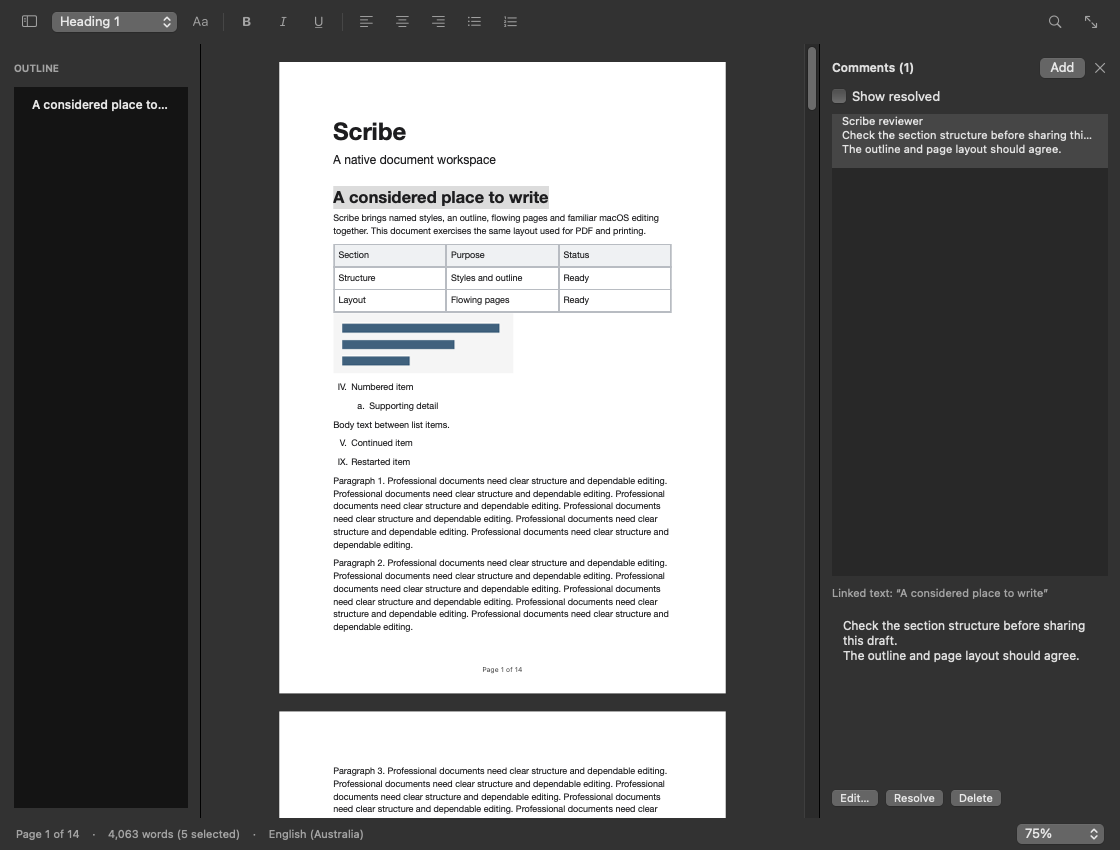
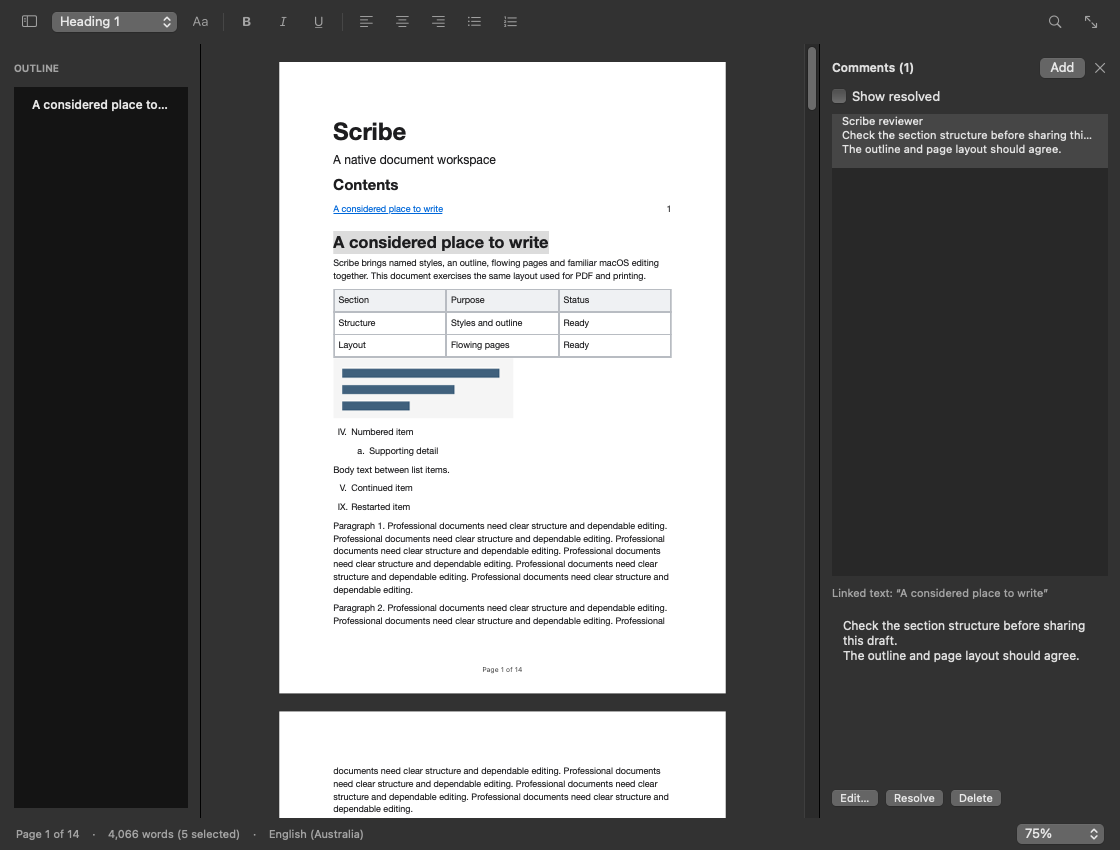
Support custom paper sizes and preserve valid object geometry on layout changes

Changed region(s): [[0.2812, 0.2141, 0.5938, 0.7647], [0.2812, 0.8871, 0.5938, 0.9788]]

diff --git a/Sources/Scribe/UI/DocumentActions.swift b/Sources/Scribe/UI/DocumentActions.swift
@@ -64,43 +64,17 @@ extension EditorWindowController {
     }
     @objc func pageSettings() {
         let alert = NSAlert(); alert.messageText = "Page Layout"
-        alert.informativeText = "Paper size and margins apply to this document. Measurements are in points (72 points = 1 inch)."
-        let size = NSPopUpButton(); size.addItems(withTitles: PageSettings.Paper.allCases.map(\.rawValue))
-        let landscape = NSButton(checkboxWithTitle: "Landscape", target: nil, action: nil)
-        let current = fileDocument.model.sections[0].page
-        landscape.state = current.width > current.height ? .on : .off
-        if max(current.width, current.height) > 950 { size.selectItem(at: 2) }
-        else if abs(min(current.width, current.height) - 612) < 1 { size.selectItem(at: 1) }
-        let margins = [current.top, current.bottom, current.left, current.right].map { NSTextField(string: String(Int($0))) }
-        var views: [NSView] = [size, landscape]
-        for (name, field) in zip(["Top", "Bottom", "Left", "Right"], margins) {
-            field.widthAnchor.constraint(equalToConstant: 90).isActive = true
-            views.append(NSStackView(views: [NSTextField(labelWithString: name), field]))
-        }
-        let stack = NSStackView(views: views); stack.orientation = .vertical; stack.alignment = .leading; stack.spacing = 10
-        stack.frame = NSRect(x: 0, y: 0, width: 300, height: 210); alert.accessoryView = stack
-        alert.addButton(withTitle: "Apply"); alert.addButton(withTitle: "Cancel")
-        guard alert.runModal() == .alertFirstButtonReturn else { return }
-        var settings = PageSettings(paper: PageSettings.Paper.allCases[size.indexOfSelectedItem], landscape: landscape.state == .on)
-        let values = margins.compactMap { Double($0.stringValue) }
-        guard values.count == 4 else { presentError(DocumentError.invalid("enter numeric margins")); return }
-        settings.top = values[0]; settings.bottom = values[1]; settings.left = values[2]; settings.right = values[3]
-        guard settings.isValid else { presentError(DocumentError.invalid("margins leave less than one inch of writing space")); return }
-        guard fileDocument.model.tables.allSatisfy({ Double($0.columnWidths.count) * 12 <= settings.contentWidth }) else { presentError(DocumentError.invalid("this page is too narrow for the document's tables")); return }
-        fileDocument.performEdit("Page Layout") { model in
-            model.sections[0].page = settings
-            for i in model.tables.indices {
-                let total = model.tables[i].columnWidths.reduce(0, +)
-                if total > settings.contentWidth { model.tables[i].columnWidths = model.tables[i].columnWidths.map { $0 * settings.contentWidth / total } }
-            }
-            for p in model.sections[0].paragraphs.indices {
-                for r in model.sections[0].paragraphs[p].runs.indices {
-                    guard var image = model.sections[0].paragraphs[p].runs[r].image else { continue }
-                    let scale = min(1, settings.contentWidth / image.width, (settings.contentHeight - 24) / image.height)
-                    image.width *= scale; image.height *= scale
-                    model.sections[0].paragraphs[p].runs[r].image = image
-                }
-            }
+        alert.informativeText = "Measurements are in points (72 points = 1 inch). Choose a preset or enter custom dimensions. Oversized tables and images shrink to fit the new writing area."
+        let options = PageLayoutOptions(settings: fileDocument.snapshot().sections[0].page)
+        alert.accessoryView = options.view; alert.addButton(withTitle: "Apply"); alert.addButton(withTitle: "Cancel")
+        while alert.runModal() == .alertFirstButtonReturn {
+            do {
+                let settings = try options.settings()
+                var updated = fileDocument.snapshot()
+                try updated.applyPageLayout(settings, sectionID: updated.sections[0].id)
+                fileDocument.performEdit("Page Layout") { $0 = updated }
+                return
+            } catch { alert.informativeText = error.localizedDescription }
         }
     }
     @objc func editHeaderFooter() {

diff --git a/Sources/Scribe/UI/PageLayoutOptions.swift b/Sources/Scribe/UI/PageLayoutOptions.swift
@@ -1,0 +1,59 @@
+#if canImport(AppKit)
+import AppKit
+import DocumentCore
+
+@MainActor final class PageLayoutOptions: NSObject, NSTextFieldDelegate {
+    let paper = NSPopUpButton()
+    let width: NSTextField
+    let height: NSTextField
+    let landscape = NSButton(checkboxWithTitle: "Landscape", target: nil, action: nil)
+    let margins: [NSTextField]
+    let view = NSStackView()
+    init(settings: PageSettings) {
+        width = NSTextField(string: String(settings.width)); height = NSTextField(string: String(settings.height))
+        margins = [settings.top, settings.bottom, settings.left, settings.right].map { NSTextField(string: String($0)) }
+        super.init()
+        let fields = [width, height] + margins
+        let labels = ["Width", "Height", "Top margin", "Bottom margin", "Left margin", "Right margin"]
+        paper.addItems(withTitles: PageSettings.Paper.allCases.map(\.rawValue) + ["Custom"])
+        paper.selectItem(at: 3)
+        for (index, preset) in PageSettings.Paper.allCases.enumerated() {
+            let size = PageSettings(paper: preset, landscape: settings.width > settings.height)
+            if abs(size.width - settings.width) < 0.01 && abs(size.height - settings.height) < 0.01 { paper.selectItem(at: index) }
+        }
+        landscape.state = settings.width > settings.height ? .on : .off
+        let grid = NSGridView(views: zip(labels, fields).map { [NSTextField(labelWithString: $0.0), $0.1] })
+        grid.rowSpacing = 8; grid.columnSpacing = 16
+        for child in [paper as NSView, landscape, grid] { view.addArrangedSubview(child) }
+        view.orientation = .vertical; view.alignment = .leading; view.spacing = 12
+        view.frame = NSRect(x: 0, y: 0, width: 320, height: 260)
+        paper.target = self; paper.action = #selector(selectPaper); paper.setAccessibilityLabel("Paper size")
+        landscape.target = self; landscape.action = #selector(rotate)
+        width.delegate = self; height.delegate = self
+        for (name, field) in zip(labels, fields) {
+            field.widthAnchor.constraint(equalToConstant: 125).isActive = true; field.setAccessibilityLabel(name)
+        }
+    }
+    @objc func selectPaper() {
+        guard PageSettings.Paper.allCases.indices.contains(paper.indexOfSelectedItem) else { return }
+        let size = PageSettings(paper: PageSettings.Paper.allCases[paper.indexOfSelectedItem], landscape: landscape.state == .on)
+        width.stringValue = String(size.width); height.stringValue = String(size.height)
+    }
+    @objc func rotate() {
+        guard let w = Double(width.stringValue), let h = Double(height.stringValue) else { return }
+        if (w > h) != (landscape.state == .on) { width.stringValue = String(h); height.stringValue = String(w) }
+    }
+    func controlTextDidChange(_ notification: Notification) {
+        paper.selectItem(at: 3)
+        if let w = Double(width.stringValue), let h = Double(height.stringValue) { landscape.state = w > h ? .on : .off }
+    }
+    func settings() throws -> PageSettings {
+        let values = ([width, height] + margins).compactMap { Double($0.stringValue) }
+        guard values.count == 6 else { throw DocumentError.invalid("enter numeric dimensions and margins") }
+        var result = PageSettings()
+        result.width = values[0]; result.height = values[1]; result.top = values[2]; result.bottom = values[3]; result.left = values[4]; result.right = values[5]
+        guard result.isValid else { throw DocumentError.invalid("dimensions must be at most 4000 points, with nonnegative margins leaving at least 72 points of writing space") }
+        return result
+    }
+}
+#endif

diff --git a/Tests/ScribeTests/PageLayoutTests.swift b/Tests/ScribeTests/PageLayoutTests.swift
@@ -1,0 +1,49 @@
+#if canImport(AppKit)
+import AppKit
+import PDFKit
+import XCTest
+import DocumentCore
+@testable import Scribe
+
+@MainActor final class PageLayoutTests: XCTestCase {
+    override func setUp() { super.setUp(); _ = NSApplication.shared }
+    func testCustomGeometryNativeDialogUndoAndPDFMediaBox() throws {
+        let document = ScribeFileDocument()
+        var page = PageSettings(); page.width = 450.5; page.height = 600.25; page.top = 60.125
+        document.model.sections[0].page = page
+        document.makeWindowControllers(); defer { document.close() }
+        let controller = document.editorController!
+        DispatchQueue.main.asyncAfter(deadline: .now() + 0.1) {
+            func descendants(_ view: NSView) -> [NSView] { [view] + view.subviews.flatMap(descendants) }
+            guard let content = NSApp.modalWindow?.contentView else { XCTFail("Missing layout dialog"); NSApp.abortModal(); return }
+            let views = descendants(content)
+            XCTAssertEqual(views.compactMap { $0 as? NSPopUpButton }.first?.titleOfSelectedItem, "Custom")
+            guard let field = views.compactMap({ $0 as? NSTextField }).first(where: { $0.isEditable && $0.stringValue == "450.5" }),
+                  let button = views.compactMap({ $0 as? NSButton }).first(where: { $0.title == "Apply" }) else { XCTFail("Missing page controls"); NSApp.abortModal(); return }
+            field.stringValue = "480.75"
+            button.performClick(nil)
+        }
+        controller.pageSettings()
+        XCTAssertEqual(document.model.sections[0].page.width, 480.75)
+        XCTAssertEqual(document.model.sections[0].page.top, 60.125)
+        let url = FileManager.default.temporaryDirectory.appendingPathComponent(UUID().uuidString + ".pdf")
+        defer { try? FileManager.default.removeItem(at: url) }
+        try PrintRenderer(editor: controller.editor).exportPDF(to: url, title: "Custom", author: "")
+        let bounds = try XCTUnwrap(PDFDocument(url: url)?.page(at: 0)?.bounds(for: .mediaBox))
+        XCTAssertEqual(bounds.width, 480.75, accuracy: 0.01); XCTAssertEqual(bounds.height, 600.25, accuracy: 0.01)
+        document.undoManager?.undo()
+        XCTAssertEqual(document.model.sections[0].page, page)
+    }
+    func testPresetRotationAndCustomDimensionsStayConsistent() throws {
+        let options = PageLayoutOptions(settings: PageSettings())
+        options.paper.selectItem(at: 1); options.selectPaper()
+        XCTAssertEqual(try options.settings().width, 612)
+        options.landscape.state = .on; options.rotate()
+        XCTAssertEqual(try options.settings().width, 792)
+        XCTAssertEqual(try options.settings().height, 612)
+        options.width.stringValue = "800.25"; options.controlTextDidChange(Notification(name: NSControl.textDidChangeNotification))
+        XCTAssertEqual(options.paper.titleOfSelectedItem, "Custom")
+        XCTAssertEqual(try options.settings().width, 800.25)
+    }
+}
+#endif

diff --git a/Sources/DocumentCore/PageLayoutEditing.swift b/Sources/DocumentCore/PageLayoutEditing.swift
@@ -1,0 +1,35 @@
+import Foundation
+
+extension ScribeDocument {
+    /// Change geometry transactionally. Objects that exceed the new writing area
+    /// shrink without modifying their underlying image data or table contents.
+    public mutating func applyPageLayout(_ settings: PageSettings, sectionID: UUID) throws {
+        guard settings.isValid, let section = sections.firstIndex(where: { $0.id == sectionID }) else {
+            throw DocumentError.invalid("page dimensions and margins must leave at least 72 points of writing space")
+        }
+        var result = self
+        let tableIDs = Set(sections[section].paragraphs.compactMap { $0.tableCell?.tableID })
+        for i in result.tables.indices where tableIDs.contains(result.tables[i].id) {
+            let widths = result.tables[i].columnWidths, minimum = Double(widths.count) * 12
+            guard minimum <= settings.contentWidth else { throw DocumentError.invalid("this page is too narrow for the document's tables") }
+            let total = widths.reduce(0, +)
+            if total > settings.contentWidth {
+                // Reserve the minimum for every column before distributing remaining
+                // space. Pure proportional scaling can produce invalid narrow cells.
+                let scale = (settings.contentWidth - minimum) / (total - minimum)
+                result.tables[i].columnWidths = widths.map { 12 + ($0 - 12) * scale }
+            }
+        }
+        result.sections[section].page = settings
+        for p in result.sections[section].paragraphs.indices {
+            for r in result.sections[section].paragraphs[p].runs.indices {
+                guard var image = result.sections[section].paragraphs[p].runs[r].image else { continue }
+                let scale = min(1, settings.contentWidth / image.width, (settings.contentHeight - 24) / image.height)
+                image.width *= scale; image.height *= scale
+                result.sections[section].paragraphs[p].runs[r].image = image
+            }
+        }
+        try NativeFormat.validate(result)
+        self = result
+    }
+}

diff --git a/Tests/DocumentCoreTests/PageLayoutTests.swift b/Tests/DocumentCoreTests/PageLayoutTests.swift
@@ -1,0 +1,31 @@
+import XCTest
+@testable import DocumentCore
+
+final class PageLayoutTests: XCTestCase {
+    func testNarrowLayoutPreservesMinimumColumnsAndOriginalImageBytes() throws {
+        var document = ScribeDocument()
+        document.insertTable(rows: 1, columns: 2, after: document.paragraphs[0].id)
+        document.tables[0].columnWidths = [12, 400]
+        let data = Data([1, 2, 3])
+        document.sections[0].paragraphs[0].runs[0] = TextRun("\u{fffc}")
+        document.sections[0].paragraphs[0].runs[0].image = InlineImage(data: data, fileExtension: "png", width: 400, height: 200)
+        var page = PageSettings(); page.width = 344; page.height = 500; page.top = 72.125
+        try document.applyPageLayout(page, sectionID: document.sections[0].id)
+        XCTAssertEqual(document.tables[0].columnWidths, [12, 188])
+        XCTAssertEqual(document.paragraphs[0].runs[0].image?.width, 200)
+        XCTAssertEqual(document.paragraphs[0].runs[0].image?.height, 100)
+        XCTAssertEqual(document.paragraphs[0].runs[0].image?.data, data)
+        XCTAssertEqual(try NativeFormat.decode(NativeFormat.encode(document)).sections[0].page, page)
+    }
+    func testRejectedLayoutLeavesModelUnchanged() throws {
+        var document = ScribeDocument()
+        document.insertTable(rows: 1, columns: 20, after: document.paragraphs[0].id)
+        let original = document
+        var page = PageSettings(); page.width = 244
+        XCTAssertThrowsError(try document.applyPageLayout(page, sectionID: document.sections[0].id))
+        XCTAssertEqual(document, original)
+        page.width = .infinity
+        XCTAssertThrowsError(try document.applyPageLayout(page, sectionID: document.sections[0].id))
+        XCTAssertEqual(document, original)
+    }
+}

diff --git a/Tests/ScribeTests/BookmarkTests.swift b/Tests/ScribeTests/BookmarkTests.swift
@@ -65,6 +65,7 @@ import DocumentCore
         XCTAssertEqual(document.snapshot().bookmarks.first?.name, "Notes")
         respond("Sources", actionIndex: 2, buttonTitle: "Apply"); controller.manageBookmarks()
         XCTAssertEqual(document.snapshot().bookmarks.first?.name, "Sources")
+        document.undoManager?.removeAllActions() // Separate UI commands normally arrive in separate events.
         respond("", actionIndex: 3, buttonTitle: "Apply"); controller.manageBookmarks()
         XCTAssertTrue(document.snapshot().bookmarks.isEmpty)
         document.undoManager?.undo()

diff --git a/docs/FEATURES.md b/docs/FEATURES.md
@@ -1,4 +1,4 @@
-# Feature status — Scribe 0.6 development (latest release: 0.5)
+# Feature status — Scribe 0.7 development (latest release: 0.6)
 
 This is a foundation release. “Implemented” means there is working code and an exposed editing path, not that the feature has the interoperability coverage of a mature word processor.
 
@@ -6,7 +6,7 @@ This is a foundation release. “Implemented” means there is working code and 
 | --- | --- | --- |
 | Native application | Swift/AppKit, arm64 bundle, document windows and tabs, menus, native spelling, focus mode, zoom, light/dark chrome | Physical-Mac keyboard/IME/VoiceOver audit, richer preferences |
 | Document model | Versioned semantic paragraphs/runs, sections, styles, tables/cell references, inline images, IDs; v1–v5→v6 migrations; TOC definitions and entries | More block types, independent section editing, preservation of future extension payloads |
-| Pagination | Shared TextKit layout across actual page containers; A4/Letter/Legal, orientation, margins, page breaks | Virtualization, widow/orphan controls, configurable hyphenation, typography audit |
+| Pagination | Shared TextKit layout across actual page containers; A4/Letter/Legal, custom dimensions, orientation, fractional margins, page breaks | Virtualization, widow/orphan controls, configurable hyphenation, typography audit |
 | Formatting | Fonts/size and concrete faces/weights via native panel, common traits, color/highlight, super/subscript, alignment, spacing and indents | Draggable ruler, dedicated inline font-weight controls |
 | Styles | Built-in headings/title/body/quote/caption, custom creation/modification/deletion, live definition updates, outline navigation | Style inheritance editor, collapsible heading content |
 | Lists | Bullets, decimal/letter/Roman numbering, independent series, restart/continuation commands, nesting, Return split/empty-item exit, Backspace outdent | Physical-Mac input audit, custom compound markers, selection spanning multiple list items |

diff --git a/docs/VALIDATION.md b/docs/VALIDATION.md
@@ -94,3 +94,6 @@ Portable tests cover generated title/page updates, stable entry IDs, preservatio
 ## Named paragraph bookmarks (next development update)
 
 Bookmarks now identify paragraph starts, with Add, Go To, Insert Link, Rename and Delete commands. Stable bookmark IDs keep links valid through renaming. Missing paragraphs leave bookmarks visible and recoverable by undo. DOCX uses actual named bookmarks and anchors; imported mid-paragraph locations explicitly warn about paragraph-start approximation. PDF links resolve to the same native paragraph destinations. Character-range bookmarks are not implemented. Portable, native dialog/deletion/undo and actual output regression coverage is being validated.
+
+- [Scribe v0.6.0](https://github.com/Ninnja10563/Scribe/releases/tag/v0.6.0) was published by successful [release run 36500547860](https://github.com/Ninnja10563/Scribe/actions/runs/36500547860), from validated revision `f591ccd`. The published arm64 DMG was downloaded and its SHA-256 verified.
+- Initial bookmark CI passed native navigation, text deletion/undo reattachment and actual PDF destinations. Its dialog test incorrectly grouped three directly invoked commands into one test event before Undo; the test now isolates the Delete command, as other native undo tests do. The corrected test is awaiting CI.

diff --git a/README.md b/README.md
@@ -2,7 +2,7 @@
 
 A native document-authoring application for Apple Silicon Macs, built with Swift and AppKit. This repository is an early foundation for a professional word processor, not a finished Word or Pages replacement.
 
-[Download Scribe 0.5.0 for Apple Silicon](https://github.com/Ninnja10563/Scribe/releases/tag/v0.5.0) · [Feature status](docs/FEATURES.md)
+[Download Scribe 0.6.0 for Apple Silicon](https://github.com/Ninnja10563/Scribe/releases/tag/v0.6.0) · [Feature status](docs/FEATURES.md)
 
 ![Scribe's native document window with a table and inline image](docs/images/scribe-light.png)
 
